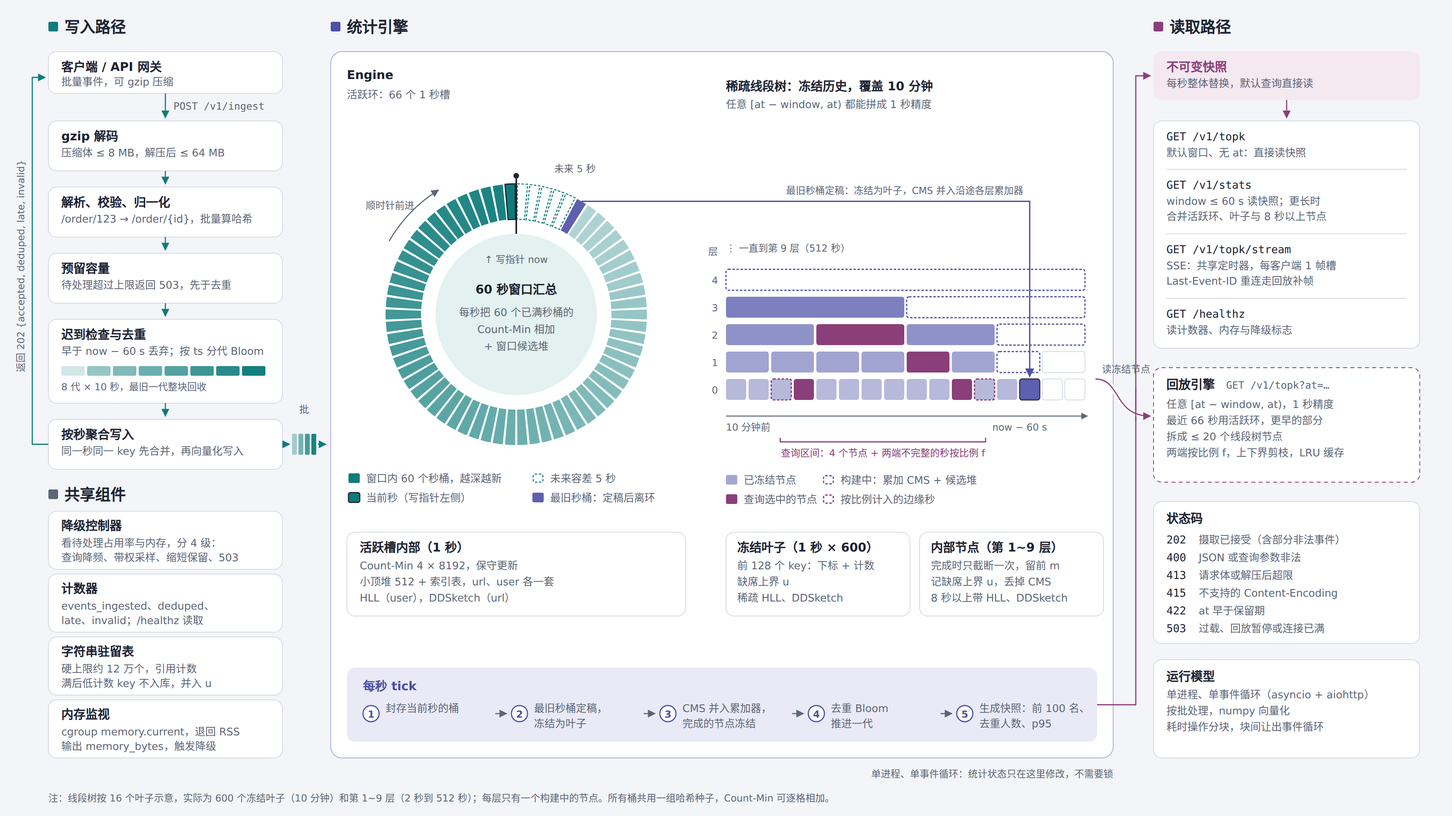
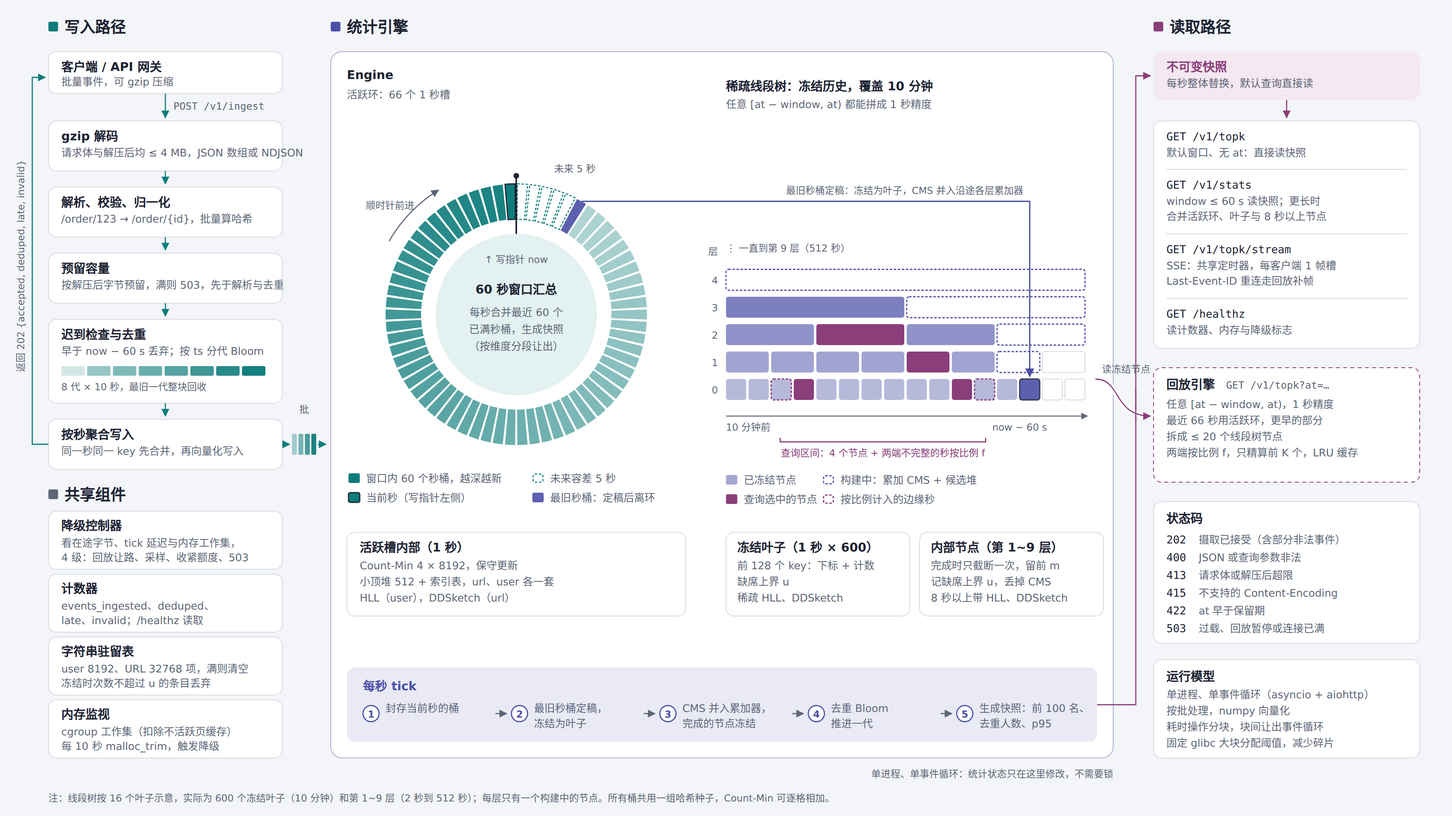
docs: 设计文档与架构图更新为最终实现（数字待 F1 填入）

diff --git a/docs/DESIGN.md b/docs/DESIGN.md
@@ -2,120 +2,128 @@
 
 ## 1. 概述
 
-FlowLens 挂在 API 网关旁边，在 256 MB 内存里实时回答：最近一段时间哪些 URL、哪些用户最热，有多少个不同的用户，响应大小的 p95 是多少。
+FlowLens 挂在 API 网关旁边，在 256 MB 内存里实时回答：最近一段时间哪些 URL、哪些用户最热，有多少个不同的用户，响应字节数的 p95 是多少。
 
-事件太多存不下，我们只存摘要：Count-Min Sketch 估次数，小顶堆记热点名单，HyperLogLog 估去重人数，DDSketch 估分位数。这几种摘要两份可以直接合成一份，所以把时间切成 1 秒一格，每格一份摘要，查某段时间就把对应的格子合起来。滑动窗口、`at` 回放都建立在这一点上。服务用 Python 实现，单进程运行，性能靠按批处理和 numpy 向量化获得。
+事件太多存不下，只存摘要：Count-Min Sketch 估次数，小顶堆记热点名单，HyperLogLog 估去重人数，DDSketch 估分位数。这几种摘要两份可以直接合成一份，所以把时间切成 1 秒一格，每格一份摘要，查某段时间就把对应的格子合起来。滑动窗口、`at` 回放都建立在这一点上。全部摘要结构自行实现，未使用现成的近似统计库。
+
+服务用 Python 实现，单进程、单事件循环（asyncio + aiohttp），性能靠按批处理与 numpy 向量化获得。
 
 <p align="center"><img src="./flowlens-architecture-v3.png" alt="FlowLens 全组件架构图" width="100%"><br><em>图 1　全组件架构</em></p>
 
-左边是写入：解码、校验、预留容量、迟到检查、去重，再按秒聚合写入。中间是统计引擎：最近 66 秒放在环里，更早的冻结后放进稀疏线段树，保留 10 分钟。右边是读取：默认查询读每秒生成的快照，带 `at` 的查询由回放引擎现场合并。
+左边是写入：解码、校验、按字节预留容量、迟到检查、去重，再按秒聚合写入。中间是统计引擎：最近 66 秒放在环里，更早的冻结后放进稀疏线段树，可查约 10 分钟。右边是读取：默认查询读每秒生成的快照，带 `at` 的查询由回放引擎现场合并。
 
 ## 2. 题目留白处的约定
 
 | 问题 | 约定 | 原因 |
 |---|---|---|
-| 按什么时间统计 | 事件自带的 `ts` | 同一段时间无论何时查结果都一样，回放才有意义 |
+| 请求体 | JSON 数组或 NDJSON（每行一条），均可 gzip | 题目 1.1 写 NDJSON、1.2 写数组，两种都接受 |
+| 按什么时间统计 | 事件自带的 `ts` | 同一段时间无论何时查，结果都一样，回放才有意义 |
 | 查询区间 | `[at − window, at)`，精确到毫秒；默认 `at` 为当前时间取整到秒 | 相邻窗口不重不漏；当前这一秒还没结束 |
-| 迟到与未来 | `ts` 早于 now − 60 s 丢弃（`late`），晚于 now + 5 s 视为非法（`invalid`）；`at` 在最近 60 秒内时结果标 `final: false` | 题目允许迟到不超过一个窗口；分界线用服务器时钟算，免得一条错乱的 `ts` 把它推歪；5 秒留给时钟偏差。见图 2 |
+| 迟到与未来 | `ts` 早于 now − 60 s 丢弃（`late`）；晚于 now + 5 s 视为非法（`invalid`）；区间未定稿时结果标 `final: false` | 题目允许迟到不超过一个窗口；分界线用服务器时钟，免得一条错乱的 `ts` 把它推歪；5 秒留给时钟偏差。见图 2 |
 | 重试 | 只看 `event_id`，假设重试时 `ts` 不变 | 去重只需覆盖一小段 `ts` |
-| URL 归一化 | 去掉 query 和 `#` 之后；纯数字、UUID、长十六进制路径段换成 `{id}`；最长 128 字节 | `/order/123` 和 `/order/456` 是同一个接口 |
+| URL 归一化 | 去掉 scheme、主机、query、`#`；纯数字、UUID、16 位以上十六进制的路径段换成 `{id}`；最长 128 字节 | `/order/123` 与 `/order/456` 是同一个接口 |
 | 并列 | 次数多的在前，相同按 key 字典序 | 结果稳定 |
-| 保留期 | 10 分钟，`window` 最长 600 s | 由内存预算决定 |
+| 可查范围 | 最新定稿秒（约 now − 60 s）往前 10 分钟；`window` 1～600 s；更早返回 422 | 由内存预算决定 |
 
-<p align="center"><img src="./fig2-late-and-dedup.png" alt="迟到处理与去重分代" width="78%"><br><em>图 2　迟到处理与去重分代</em></p>
+<p align="center"><img src="./fig2-late-and-dedup.png" alt="迟到处理与去重分代" width="72%"><br><em>图 2　迟到处理与去重分代</em></p>
 
 ## 3. 各模块怎么做
 
 ### 3.1 写入与去重
 
-写入处理依次做：gzip 解码（压缩后超 8 MB 或解压后超 64 MB 返回 413）；解析校验、URL 归一化、批量算 64 位哈希；预留容量；迟到检查；`event_id` 去重；同一秒同一 key 先合并，再写入秒桶。做完返回 202 和 `{accepted, deduped, late, invalid}`。
+写入依次做：gzip 解码（请求体与解压后都不超过 4 MB，否则 413）；按解压后字节数预留在途额度（合计 4 MB，满了返回 503 + `Retry-After`）；解析与逐条校验、URL 归一化、批量算 64 位哈希；迟到检查；`event_id` 去重；同一秒同一 key 先合并，再写入秒桶。返回 202 与 `{accepted, deduped, late, invalid}`，单条不合法只计入 `invalid`，不影响同批其他事件。
 
-预留容量必须在去重之前：在途事件超过上限（10 万条）时整个请求直接返回 503。如果先去重再拒绝，这些 `event_id` 已经写进 Bloom，调用方重试时会被当成重复事件丢掉。
+**预留必须在解析与去重之前。** 先去重再拒绝，这些 `event_id` 已经写进 Bloom，调用方重试时会被当成重复而丢掉；先解析再预留，又挡不住解析本身的内存（实测 orjson 解析出的对象约为原始 JSON 的 3.4 倍）。读取请求体另有 8 MB 的原始字节额度；带 `Expect: 100-continue` 的大请求在发送请求体之前就会被拒。处理按 5000 条一块进行，块与块之间让出事件循环。
 
-精确记住所有 `event_id` 要几百 MB，所以用 Bloom filter。它不能删元素，所以按 `ts` 每 10 秒分一代，保留 8 代（图 2 最下面一行），整代过了 watermark 就清空复用。每代按峰值 200 万条、误判 0.1% 设计，位数向上取到 2 的幂，实际误判约 0.03%，8 代共约 34 MB。同一批里重复出现的 id 先在批内去重，第一次出现的才去查 Bloom。
+精确记住所有 `event_id` 要几百 MB，所以用 Bloom filter。它不能删元素，所以按 `ts` 每 10 秒分一代、保留 8 代（图 2 下排），整代过了 watermark 就清空复用。每代按 200 万条、误判 0.1% 设计，位数取到 2 的幂，实际误判约 0.03%，共 32 MiB。
 
-### 3.2 单进程、单写者、按批处理
+### 3.2 单进程、单写者
 
-Python 有全局解释器锁，多线程用不上多核；每个 Python 进程又有几十 MB 的基础内存，256 MB 里开不了几个进程。所以服务只跑一个进程、一个事件循环（asyncio + aiohttp），全部统计状态归一个引擎对象，只在事件循环里修改。只有一个写者，就完全不需要锁。
-
-性能靠按批处理获得：一个请求里的事件先拆成 numpy 数组，分类、去重、按秒和 key 聚合都是向量化运算；Count-Min、HLL、DDSketch 也按批更新。名单已满时，先向量化筛掉不可能入选的 key，只对剩下的少数逐个更新堆。实测统计核心单核约每秒 25 万条。耗时操作（大请求、大区间合并）分块执行，块之间让出事件循环，避免查询延迟超过 50 ms。
+Python 有全局解释器锁，多线程用不上多核；每个 Python 进程又有几十 MB 的基础内存，256 MB 里开不了几个。所以只跑一个进程、一个事件循环，全部统计状态归一个引擎对象，只在事件循环里修改，不需要锁，也不存在数据竞争。名单已满时，先向量化筛掉不可能入选的 key，只对剩下的少数逐个更新堆。
 
 ### 3.3 最近 66 秒：活跃环
 
-引擎里有一个 66 格的环：60 格是窗口，1 格是当前秒，5 格留给时钟偏差带来的"未来"事件。写指针每秒前进一格，最旧的一格定稿后离开。每格存 url 和 user 各一套 Count-Min（4 × 8192，保守更新）和小顶堆（512 个位置，带索引表），另有 HLL 和 DDSketch。
+66 格的环：60 格是窗口，1 格是当前秒，5 格留给"未来"事件。每格存 url 与 user 各一套 Count-Min（4 × 8192，保守更新）与小顶堆（512 个位置，带索引表），另有 HLL（user）与 DDSketch（url）。
 
-每条事件先写 Count-Min 拿到估计次数。key 在堆里就加一；不在堆里但超过堆顶，就替换堆顶。已在堆里的 key 也写 Count-Min，这样被挤出后再回来，次数不会丢。
-
-后面常用到一个性质：一秒结束时不在堆里的 key，这一秒的真实次数不超过堆顶。因为它每次出现时都没超过当时的堆顶，被挤出时次数等于当时的堆顶，而堆顶只增不减。我们把它叫缺席上界 u。
-
-为了不漏掉"每秒都不热、一分钟加起来很热"的 key，引擎为默认窗口另外维护一个候选堆，用"上一秒的窗口汇总 + 当前秒"的估计值筛选。
+每条事件先写 Count-Min 拿到估计次数：key 在堆里就加上；不在堆里但超过堆顶就替换堆顶。已在堆里的 key 也写 Count-Min，被挤出后再回来，次数不会丢。由此有一个关键性质：一秒结束时不在堆里的 key，这一秒的真实次数不超过堆顶，因为它每次出现时都没超过当时的堆顶，而堆顶只增不减。我们把它叫缺席上界 u。
 
 ### 3.4 更早的数据：稀疏线段树
 
-`at` 精确到毫秒，`window` 可以任意填，评测会和离线精确结果对比。历史如果只按 10 秒对齐，60 秒窗口最多有六分之一落在错误区间，所以历史也要 1 秒精度。但 600 个完整秒桶要两三百 MB，我们只让环里的 66 格保持完整，更早的只留必要信息。
+`at` 精确到毫秒、`window` 任意，评测会和离线精确结果对比。历史如果只按 10 秒对齐，60 秒窗口最多有六分之一落错区间，所以历史也要 1 秒精度。但 600 个完整秒桶要两三百 MB，于是只让环里的 66 格保持完整。
 
-秒桶离开环后变成叶子，只留前 128 个 key 的次数、u、稀疏的 HLL 和 DDSketch。叶子之上是第 1 到第 9 层，第 k 层每个节点覆盖 2^k 秒。每层同一时刻只有一个节点在构建，带一个累加用的 Count-Min 和候选堆；每个秒桶定稿时，把它的 Count-Min 加进所有正在构建的祖先节点。节点完成时按估计值留下前 m 个，记下 u，扔掉 Count-Min，变成只读数组。
+秒桶离开环后变成叶子，只留前 128 个 key 的次数、u、HLL 与 DDSketch。叶子之上是第 1～9 层，第 k 层每个节点覆盖 2^k 秒。每层同一时刻只有一个节点在构建，带一个累加用的 Count-Min 与候选堆；秒桶定稿时，把它的 Count-Min 加进所有正在构建的祖先。节点完成时按估计值留下前 m 个、记下 u、扔掉 Count-Min。这样每个节点只截断一次，误差不会逐层叠加（图 3），因为每秒的数据离开环之前 Count-Min 都还在。冻结时次数不超过 u 的条目直接丢掉，全随机的攻击流量会让节点名单自然变空（实测约 0.4 MB）。
 
-这样每个节点只截断一次，误差不会像普通线段树那样逐层叠加（图 3）。能做到这一点，是因为每秒的数据离开环之前 Count-Min 都还在。8 秒以上的节点才带 HLL 和 DDSketch。
-
-<p align="center"><img src="./fig3-truncate-once.png" alt="为什么每个节点只截断一次" width="78%"><br><em>图 3　为什么每个节点只截断一次</em></p>
-
-字符串表有硬上限（约 12 万个）。冻结时次数不超过 u 的条目直接丢掉，表满后新 key 不再入库、次数算进 u。这样无论流量长什么样内存都有上限，随机 URL 的攻击流量会让节点自然变空。
+<p align="center"><img src="./fig3-truncate-once.png" alt="为什么每个节点只截断一次" width="72%"><br><em>图 3　为什么每个节点只截断一次</em></p>
 
 ### 3.5 快照与查询
 
-每秒做一次 tick：封存当前秒；最旧秒桶冻结成叶子，并入各层累加器，冻结完成的节点；推进去重 Bloom 的代；对最近 60 秒做一次合并，生成快照（前 100 名、去重人数、p95），整体替换旧快照。每秒重建而不做增量加减，迟到事件下一秒自然算进去。快照、回放、SSE 补帧都调用同一个组装时间片的方法，保证结果一致。
+每秒的 tick 先定稿（最旧秒桶冻结成叶子，并入各层累加器），推进 Bloom 的代，再合并最近 60 个整秒生成快照（前 100 名、去重人数、p95），整体替换。快照按维度分段计算，段间让出事件循环。每秒重建而不做增量加减，迟到事件下一秒自然计入。快照、回放、SSE 都调用同一个组装时间片的方法，结果一致。
 
-默认的 `/v1/topk` 直接读快照。带 `at` 或其他 `window` 的走回放引擎（图 4）：最近 66 秒用环里的秒桶，更早的拆成最多约 20 个线段树节点，两端不满一秒的按覆盖比例 f 折算。然后给每个候选算出次数的上下界，用第 K 大的下界当门槛，上界够不着的直接淘汰，只精算剩下的。定型区间的结果进 LRU 缓存，大区间分块合并。
+默认的 `/v1/topk` 与 `/v1/stats` 直接读快照。带 `at` 或其他 `window` 的走回放（图 4）：最近 66 秒用环里的秒桶，更早的拆成最多约 20 个线段树节点，两端不满一秒的按覆盖比例 f 折算。合并时每个 key 得到次数的上下界，按点估计选出前 K 个，只对它们用 Count-Min 收紧上界；上界够不到第 K 大下界的候选不可能进前 K，所以其余候选不必精算。从未进入任何一秒名单的 key 不会出现在结果里，但它的次数一定不超过响应中的 `unseen_upper`。定稿区间的结果进 LRU 缓存。
 
-<p align="center"><img src="./fig4-replay-query.png" alt="回放查询的区间拆分与剪枝" width="78%"><br><em>图 4　回放查询：区间怎么拆、候选怎么剪</em></p>
+<p align="center"><img src="./fig4-replay-query.png" alt="回放查询的区间拆分" width="72%"><br><em>图 4　回放查询：区间怎么拆、为什么只需精算前 K 个</em></p>
 
-`/v1/stats` 的长窗口同样合并环、叶子和 8 秒以上节点，HLL 的边缘秒覆盖过半才计入。结果都带 `count`、`err` 和实际的 `from`、`to`。SSE 订阅者共用计算结果，重连时按 `Last-Event-ID` 补发最多 30 帧，慢客户端只留最新一帧。
+SSE 按参数分组，同组订阅者共用一份计算，每组每秒最多重算一次，最多 8 组、256 个订阅者。每个订阅者只保留最新一帧（慢客户端跳帧，5 秒写不出去就断开）；每组缓存最近 30 帧，重连时按 `Last-Event-ID` 从缓存补发，id 连续递增。
 
 ### 3.6 过载与降级
 
-调用方只等本批数据的处理（约每千条 5 毫秒）。负载上来时依次降级，每级有进入和退出两个阈值，状态见 `/healthz` 的 `degraded`：
+不丢摄取的原则：所有拒绝都发生在去重之前，并返回 503 + `Retry-After`，调用方重试是安全的；一旦接受就完整计入。负载上来时依次降级，每级有进入与退出两个阈值（滞回），状态见 `/healthz` 的 `degraded`。内存指 cgroup 工作集（`memory.current` 减去不活跃的页缓存，与 `docker stats` 口径一致）：
 
-| 级别 | 触发 | 动作 |
+| 级别 | 进入条件 | 动作 |
 |---|---|---|
-| 1 | 在途事件 > 60% 或 tick 延迟 > 1 s | SSE 降频，快照缓存变长，暂停回放（503） |
-| 2 | 在途事件 > 80% | Top-K 和 DDSketch 按概率 p 采样、每条按 1/p 计；HLL 和去重照常 |
-| 3 | 内存 > 200 MB | 缩短历史保留，收紧并发 |
-| 4 | 内存 > 230 MB | 写入返回 503 + Retry-After |
-
-第 4 级不等于丢数据：去重保证重试不会重复计数。
+| 1 | 在途字节 > 60% 或 tick 延迟 > 1 s | 回放查询暂停（503），SSE 每 5 秒重算一次；默认查询照常 |
+| 2 | 在途字节 > 80% | Top-K 与 p95 按 `event_id` 哈希确定性采样（1/2 或 1/4），按权重计入；HLL 与去重全量；响应带 `sample_rate`，此时上下界为近似 |
+| 3 | 内存 > 上限 × 78% | 在途与原始字节额度减半，拒绝新的 SSE 订阅，清空缓存 |
+| 4 | 内存 > 上限 × 90% | 写入在读取请求体之前返回 503 |
 
 ## 4. 复杂度与误差
 
-写入每条 O(L + d)，L 为 key 长度、d = 4，名单更新只发生在筛选后的少数 key 上，每个 O(log m)；默认查询 O(K)；回放最多合并约 20 个节点加环内秒桶。
+写入每条 O(L + d)（L 为 key 长度，d = 4），名单更新只发生在筛选后的少数 key 上，每个 O(log m)；默认查询 O(K)；回放最多合并约 20 个节点加环内秒桶。
 
-| 统计项 | 误差 |
-|---|---|
-| 环内单秒的 Top-K 次数 | Count-Min 只高估，每秒不超过 e·N/w ≈ 66，概率 ≥ 98% |
-| 60 秒窗口 | 约 4000，结果里带 `err` |
-| 冻结节点、边缘秒 | 不在名单的 key ≤ u；边缘秒为 `[0, 整秒次数]`，都一定成立 |
-| 去重用户数 | HLL p = 14，标准误差 0.81% |
-| p95 | DDSketch α = 1%，相对误差 ≤ 1%，一定成立 |
-| `event_id` 去重 | 设计上限 0.1%，实际约 0.03% 的新事件被误丢 |
+| 统计项 | 误差上界（理论） | 实测（长尾，§7） |
+|---|---|---|
+| Top-K 次数 | Count-Min 只高估；不在名单的 key ≤ u；结果带 `err`，真实值一定在 [下界, 上界] 内 | 计数误差 0.05%～0.09%，100% 落在上下界内 |
+| 去重用户数 | HLL p = 14，标准误差 0.81% | 0.92% |
+| p95 | DDSketch α = 1%，相对误差 ≤ 1% | 0.14% |
+| `event_id` 去重 | 误判约 0.03% | — |
 
-## 5. 内存预算
+## 5. 内存
 
-按最坏情况（所有 URL 和用户互不相同）估算：Python 运行时与依赖库约 45 MB，活跃环约 34 MB，线段树约 30 MB，字符串表上限约 13 MB，去重 Bloom 34 MB，在途写入（上限 10 万条）约 20 MB，查询临时内存与快照约 20 MB，合计约 195 MB。大块数据都放在 numpy 数组里，避免 Python 对象开销。以上为估算，以 256 MB 容器实测为准。`memory_bytes` 读 cgroup 的 `memory.current`，读不到用 RSS。
+服务的数据结构有界：固定部分（Bloom 32 MiB、活跃环 Count-Min 16.5 MiB、线段树各节点的 HLL 约 12 MiB）启动即分配；随数据增长的部分（名单、字符串、缓存）在 10 分钟保留期填满后封顶，进程内实测约 100 MB，长尾与全随机流量几乎相同。字符串经驻留表共享（user 8192 项、URL 32768 项，满则清空），各缓存都有上限。
+
+容器实测发现，工作集比数据结构本身多出约 100 MiB：一半是 glibc 留着不还的已释放内存（每个请求解析出上万个临时对象），一半是并发请求的解析与连接缓冲。对策是每 10 秒调用 `malloc_trim`，并把 glibc 的大块分配阈值固定为 128 KB（`MALLOC_MMAP_THRESHOLD_`），让请求体与临时数组用完立即归还。修正后同样负载下峰值从 237 MiB 降到 179 MiB（下表）。
+
+| 场景（256 MB 容器，32 个并发连接） | 工作集峰值 | 降级 |
+|---|---|---|
+| 空载 | 约 70～80 MiB | 0 级 |
+| 长尾，每秒 3 万条，5 分钟 | 179 MiB | 全程 0 级，接受率 100% |
+| 全随机攻击流量，每秒 3 万条，10 分钟 | 【F1】 | 【F1】 |
 
 ## 6. HTTP 语义
 
-写入成功 202（含空数组、部分事件非法）；参数不合法 400（`k` 1~100，`window` 1~600 s）；`at` 早于保留期 422；方法不对 405；超大 413；编码不支持 415；过载 503 + `Retry-After`。
+写入成功 202（含空数组、部分事件非法）；JSON 或参数不合法 400（`k` 1～100，`window` 1～600 s）；路径不存在 404；方法不对 405；请求体超限 413；编码不支持 415；`at` 早于可查范围 422；过载、回放暂停或连接已满 503 + `Retry-After`。错误统一返回 `{"error": ...}`，没有数据时数值字段为 `null`。超限请求的 413 立即发出，服务端再用 1 秒读完在途请求体后关闭连接，避免客户端收到 RST。`docker stop` 时收到 SIGTERM 即正常退出。
 
-## 7. 测试
+## 7. 测试与实验
 
-离线精确程序读同一份数据，和服务对比各项误差。自测脚本覆盖 14 个边界用例，如重复 `event_id`、`ts` 正好在 watermark 上、区间起止边界、损坏的 gzip、`at` 带毫秒、SSE 重连、过载进入和恢复。核心模块已有 46 个单元测试；线段树的性质测试检查随机区间拆分不重不漏、真实次数落在上下界内，并做过变异检验。另用 `docker run --memory=256m` 跑全随机流量验证内存有界，并压测吞吐和 p99。
+单元与集成测试 300 余个，在镜像的 Python 3.12 中运行；`tools/selftest.py` 对运行中的服务检查 18 个边界用例（空数组、非法 JSON、部分非法、批内与跨批重复、迟到、未来、gzip、解压炸弹、超大请求、不支持的编码、早于保留期、参数越界、405、404、无数据时为 null、SSE 重连、NDJSON 等）。线段树的性质测试检查随机区间拆分不重不漏、真实次数落在上下界内，并做过变异检验。
 
-待补实验：两种流量下的 Top-10 召回率与次数误差、随机流量下的峰值内存、吞吐瓶颈。
+实验用 `tools/loadgen.py` 产生流量并存档，`tools/exact.py` 对任意区间算精确答案。压测流量中约一半的 URL 路径带每次都不同的随机 ID，是偏严苛的设定。全部在 `docker run --memory=256m` 中进行，服务固定在一个 CPU 核上：
+
+| 场景 | 结果 |
+|---|---|
+| 精度（长尾，每秒 3 万条，5 分钟，抽样 200 个区间） | 召回 100%，计数误差 0.05%～0.09%，100% 落在上下界内；去重 0.92%，p95 0.14% |
+| 最大可持续吞吐（单核） | 【F1】 |
+| 混合负载下查询 p99（默认 / 回放 / stats） | 【F1】 |
+| 过载与恢复 | 【F1】 |
 
 ## 8. 主要取舍
 
-用近似换内存，误差有上限并随结果报出。迟到上限等于窗口，去重和活跃环才能限定在 70 秒左右，这是内存可控的前提。稀疏线段树换来任意区间 1 秒精度的回放，代价是实现和测试更复杂。选 Python 换来代码好读、答辩讲得清，代价是吞吐余量变小：端到端预计接近每秒 20 万条，要以压测为准。过载时先降精度后拒绝，因为去重让重试是安全的。
+**用近似换内存**，误差有上限并随结果报出。迟到上限等于窗口，去重与活跃环才能限定在 70 秒左右，这是内存可控的前提。稀疏线段树换来任意区间 1 秒精度的回放，代价是实现与测试更复杂。
 
-## 9. 规划中：节点退出与历史落盘
+**吞吐未达到 20 万条/秒。** 选 Python 换来代码好读、每处设计讲得清，代价是单核吞吐有限。剖析显示每条事件约 12 μs，其中约 60% 在逐条校验与 URL 归一化（带随机 ID 的路径无法命中归一化缓存），引擎写入约 22%，JSON 解析约 5%。我们没有用多进程去凑这个数字：256 MB 里每多一个 Python 进程就多占几十 MB，会把内存这一项赔进去。已实施归一化与校验的快路径【F1：优化后的结果】；后续方向是把写入分块缩小以降低查询延迟、垃圾回收调优、快照改为增量维护。
 
-主功能完成后实现。节点超出保留期后先标记为已废弃，新查询不再选它，进行中的查询读完后才释放。可选把释放的 64 秒节点写进日志（默认关闭），用于离线分析和重启恢复；开启时 `memory_bytes` 只统计匿名内存，避免页缓存被算进去。
+**过载时先让路、再采样、最后拒绝**，因为拒绝发生在去重之前，重试是安全的。
+
+## 9. 后续规划
+
+节点超出保留期后可选写入日志（默认关闭），用于离线分析与重启恢复。服务提供只读的调试接口 `/debug/structure`（设置 `FLOWLENS_DEBUG=1` 时开启），输出环与线段树的状态，便于观察与可视化。
